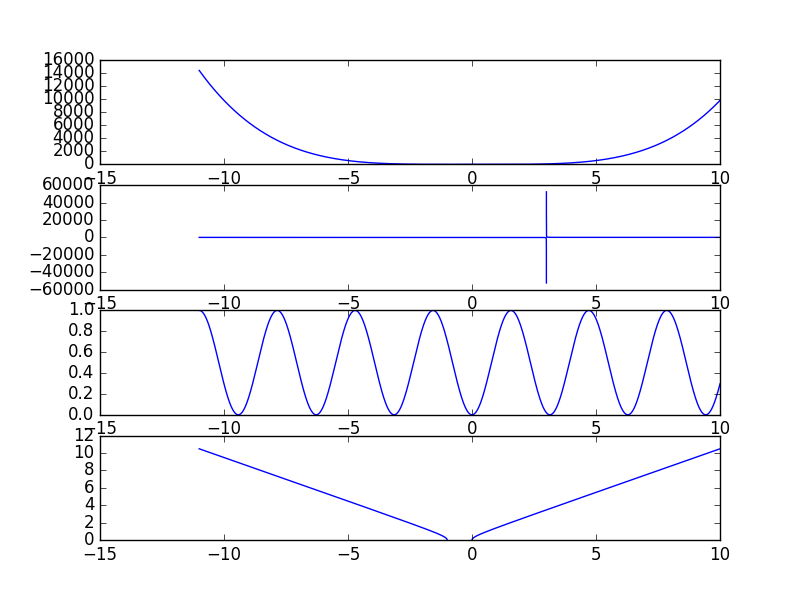
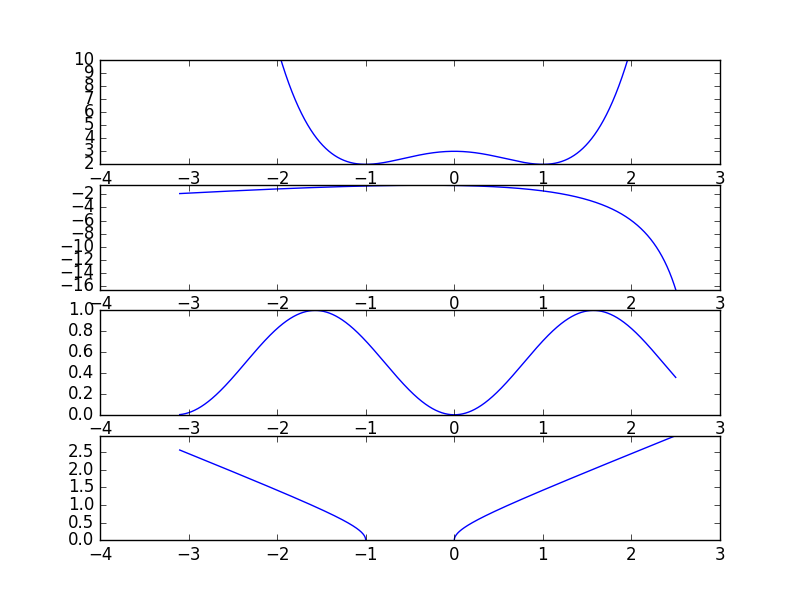
Updated plots.

diff --git a/Calculus2016/Homework3/ques5.py b/Calculus2016/Homework3/ques5.py
@@ -20,8 +20,10 @@ import matplotlib.pyplot as plt
 import numpy as np
 
 def plot_func( ax, f ):
-    xs = np.linspace( -11, 10, 10**5 )
-    ax.plot( xs, f(xs) )
+    xs = np.linspace( -3.1, 2.5, 10**5 )
+    ys = f(xs)
+    ax.plot( xs, ys )
+    ax.set_ylim( [min(ys), min(10, max(ys)) ] )
 
 def main( ):
     gridSize = (4, 1)
